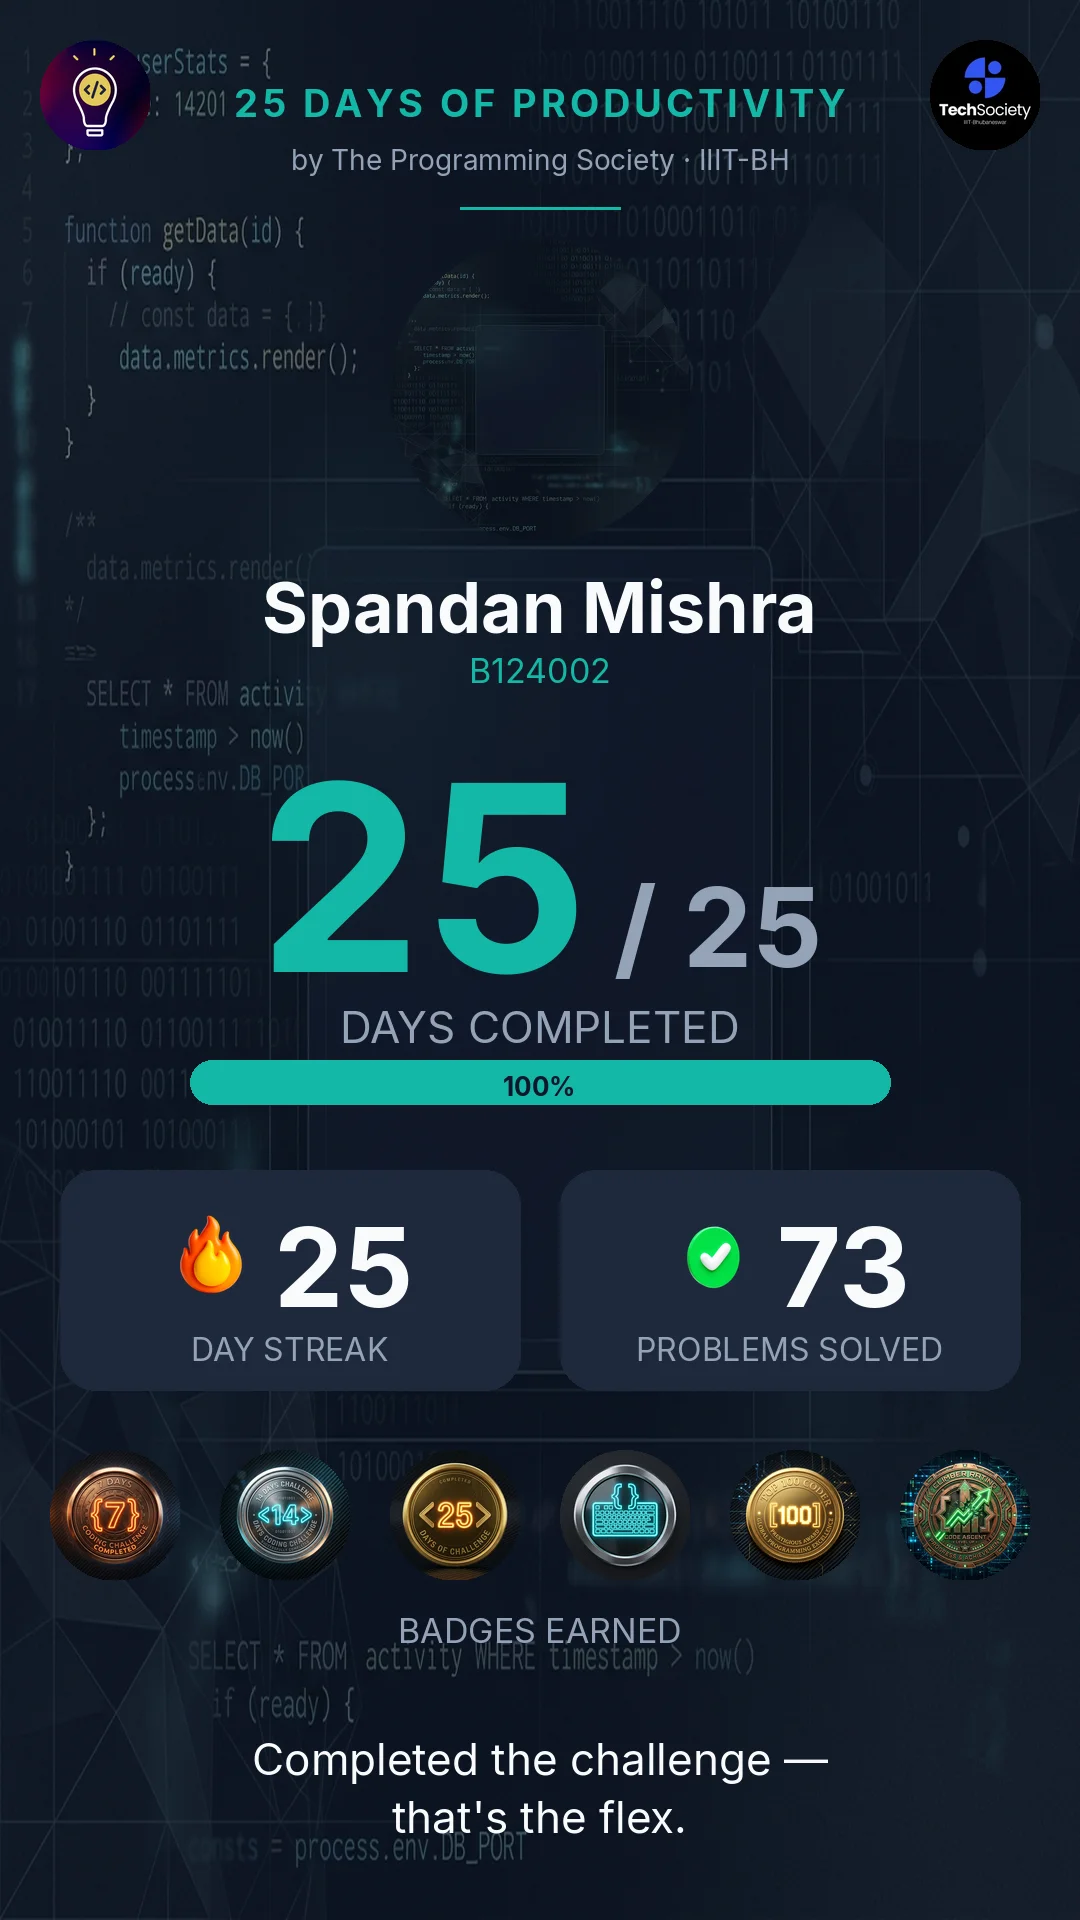
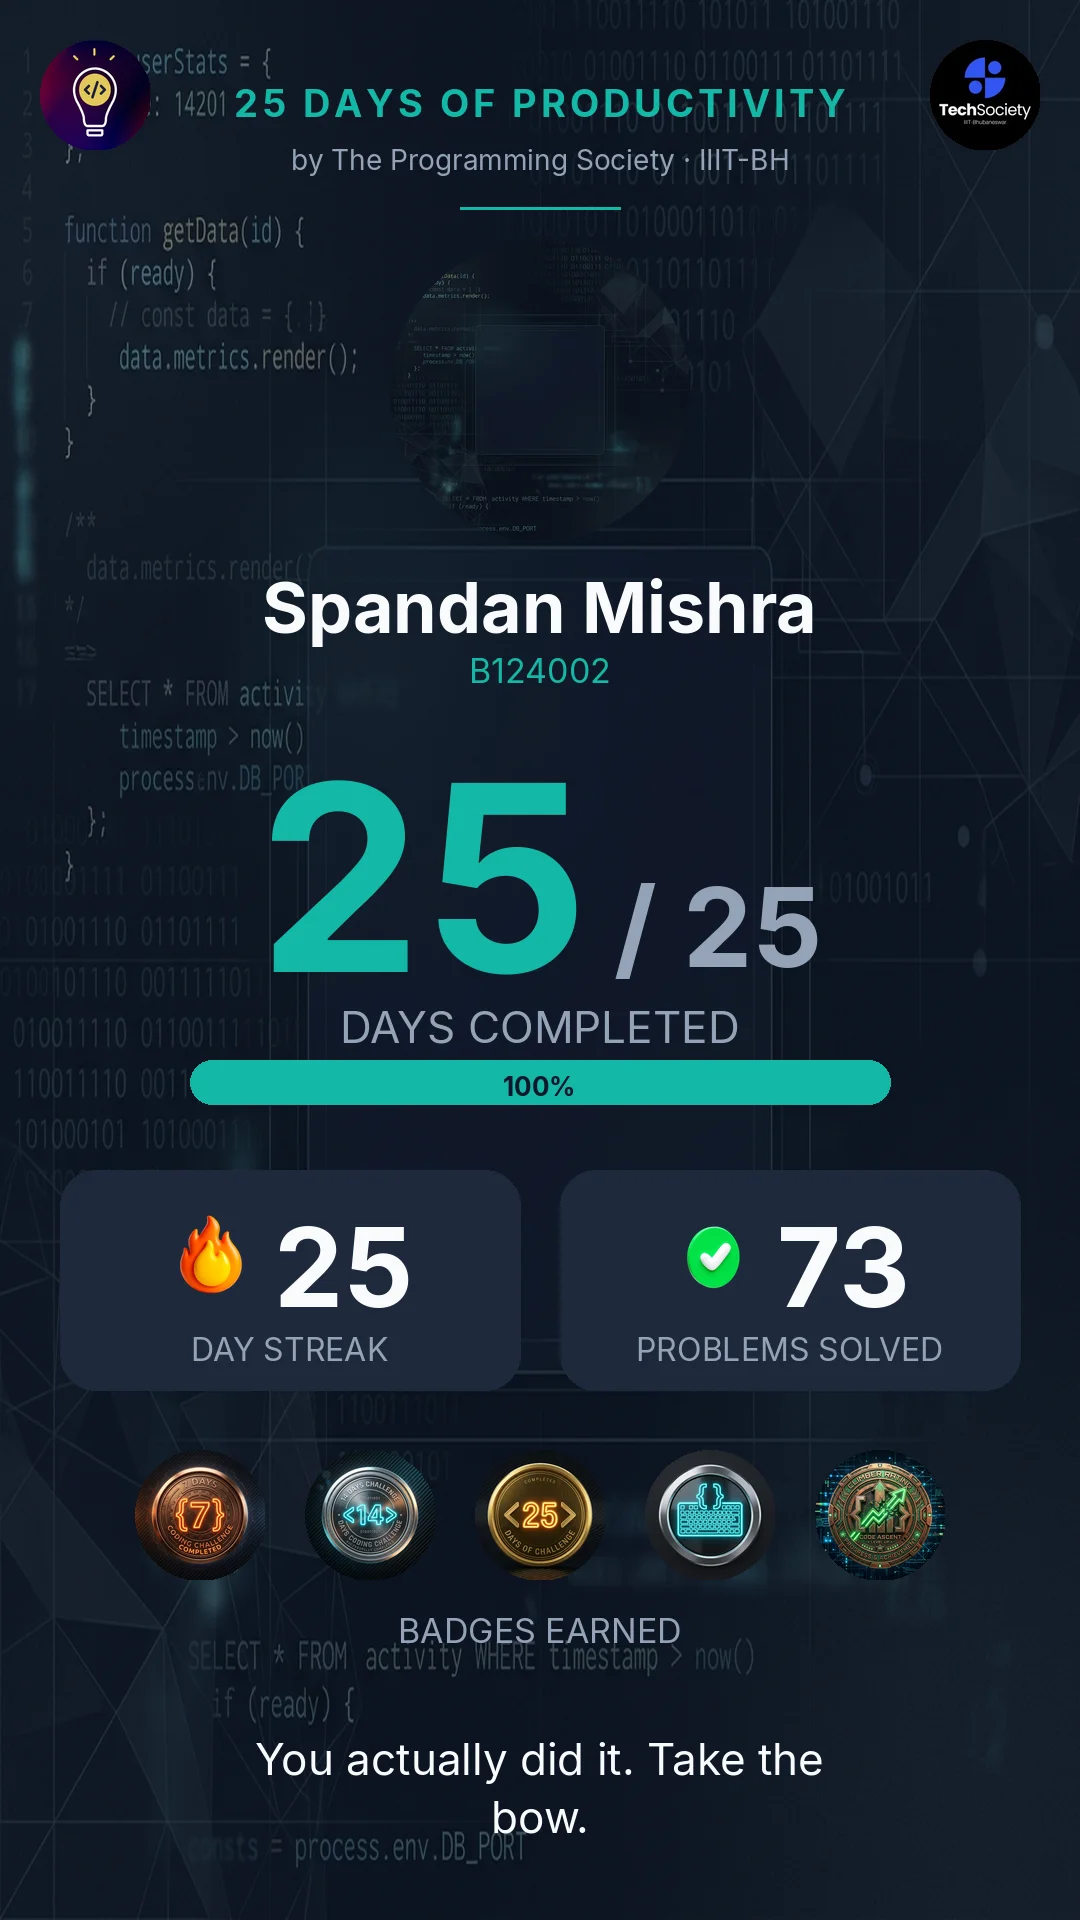
remove top 100

Changed region(s): [[0.0306, 0.75, 0.9472, 0.8438], [0.2444, 0.9062, 0.7639, 0.9688]]

diff --git a/db/badges_config.py b/db/badges_config.py
@@ -39,14 +39,6 @@ BADGES_CATALOG: List[Dict[str, Any]] = [
         "display_priority": 15,
     },
     {
-        "key": "contest_top_100",
-        "name": "Top 100",
-        "description": "Finished in the top 100 of any LC or CF contest",
-        "category": "contest",
-        "emoji": "🌟",
-        "display_priority": 25,
-    },
-    {
         "key": "contest_rating_climber",
         "name": "Rating Climber",
         "description": "Gained rating in at least one LC or CF contest",
@@ -98,6 +90,16 @@ def sync_badges_to_db() -> None:
         return
     try:
         with conn.cursor() as cur:
+            # First, delete any badges from the database that are no longer in BADGES_CATALOG
+            keys = [b["key"] for b in BADGES_CATALOG]
+            cur.execute(
+                """
+                DELETE FROM badges
+                WHERE key != ALL(%s);
+                """,
+                (keys,),
+            )
+
             for b in BADGES_CATALOG:
                 # Retrieve the configured Discord Role ID for this badge, if set
                 role_id_raw = badge_roles.get(b["key"])

diff --git a/scripts/test_card.py b/scripts/test_card.py
@@ -54,8 +54,8 @@ SAMPLES = [
                                 avatar_webp_bytes=avatar_bytes)),
     ("card_done",      CardData(name="Spandan Mishra", student_id="B124002", day_progress=25,
                                 streak=25, total_solved=73,
-                                badge_emojis=["🥉", "🥈", "🥇", "🎯", "🌟", "📈"],
-                                badge_keys=["day7_done", "day14_done", "day25_done", "contest_participant", "contest_top_100", "contest_rating_climber"],
+                                badge_emojis=["🥉", "🥈", "🥇", "🎯", "📈"],
+                                badge_keys=["day7_done", "day14_done", "day25_done", "contest_participant", "contest_rating_climber"],
                                 avatar_webp_bytes=avatar_bytes)),
     ("card_no_badges", CardData(name="New Joiner",   student_id="B124099", day_progress=1,
                                 streak=1, total_solved=2, badge_emojis=[], avatar_webp_bytes=avatar_bytes)),

diff --git a/db/contests.py b/db/contests.py
@@ -271,9 +271,6 @@ def _record_contests_db_tx(
 
         badge_qualifiers = {
             "contest_participant": len(all_contests) > 0,
-            "contest_top_100": any(
-                (rank is not None and rank <= 100) for rank, _ in all_contests
-            ),
             "contest_rating_climber": any(
                 (delta is not None and delta > 0) for _, delta in all_contests
             ),
@@ -327,7 +324,6 @@ async def record_user_contests(
 
     Badges awarded here (all idempotent via UNIQUE on user_badges):
       - contest_participant:     any new contest recorded this call.
-      - contest_top_100:         any newly-recorded contest with rank <= 100.
       - contest_rating_climber:  any newly-recorded contest with rating_delta > 0.
     """
     lc_handle, cf_handle = _get_user_handles(discord_user_id)

diff --git a/cogs/submissions.py b/cogs/submissions.py
@@ -91,7 +91,7 @@ class SubmissionsCog(commands.Cog):
 
             # Contest detection: poll LC + CF for any new contests this user
             # attended inside the event window, record them, and award any
-            # contest-category badges (participant / top_100 / rating_climber).
+            # contest-category badges (participant / rating_climber).
             # The helper handles rate limiting, partial failures, and
             # idempotency internally and returns both the new contests and
             # any newly-awarded badge metadata.

diff --git a/scripts/test_contests_fix.py b/scripts/test_contests_fix.py
@@ -190,7 +190,6 @@ async def test_db_upsert_and_badges():
              
              print(f"Badges awarded: {badge_keys}")
              assert "contest_participant" in badge_keys, "Expected contest_participant badge"
-             assert "contest_top_100" in badge_keys, "Expected contest_top_100 badge (rank 80)"
              assert "contest_rating_climber" in badge_keys, "Expected contest_rating_climber badge (delta +40)"
              
              print("✅ Database upserts and badge awarding fixes verified successfully!")

diff --git a/scripts/init_badges_contests.py b/scripts/init_badges_contests.py
@@ -92,7 +92,6 @@ SEED_BADGES = [
     ("day25_done", "Day 25 Done", "Completed the full 25-day challenge",        "milestone"),
     # contest
     ("contest_participant", "Contest Participant", "Attended at least one LC or CF contest during the event", "contest"),
-    ("contest_top_100",     "Top 100",             "Finished in the top 100 of any LC or CF contest",         "contest"),
     ("contest_rating_climber", "Rating Climber",   "Gained rating in at least one LC or CF contest",          "contest"),
 ]
 

diff --git a/scripts/init_badge_nicknames.py b/scripts/init_badge_nicknames.py
@@ -36,7 +36,6 @@ BADGE_DISPLAY = [
     ("day14_done",             "🥈", 20),
     ("day25_done",             "🥇", 30),
     ("contest_participant",    "🎯", 15),
-    ("contest_top_100",        "🌟", 25),
     ("contest_rating_climber", "📈", 18),
 ]
 

diff --git a/README.md b/README.md
@@ -82,7 +82,6 @@ Manages event durations, branding titles, and Discord Role mappings for earned b
     "day14_done": 123456789012345678,
     "day25_done": 123456789012345678,
     "contest_participant": 123456789012345678,
-    "contest_top_100": 123456789012345678,
     "contest_rating_climber": 123456789012345678
   }
 }
